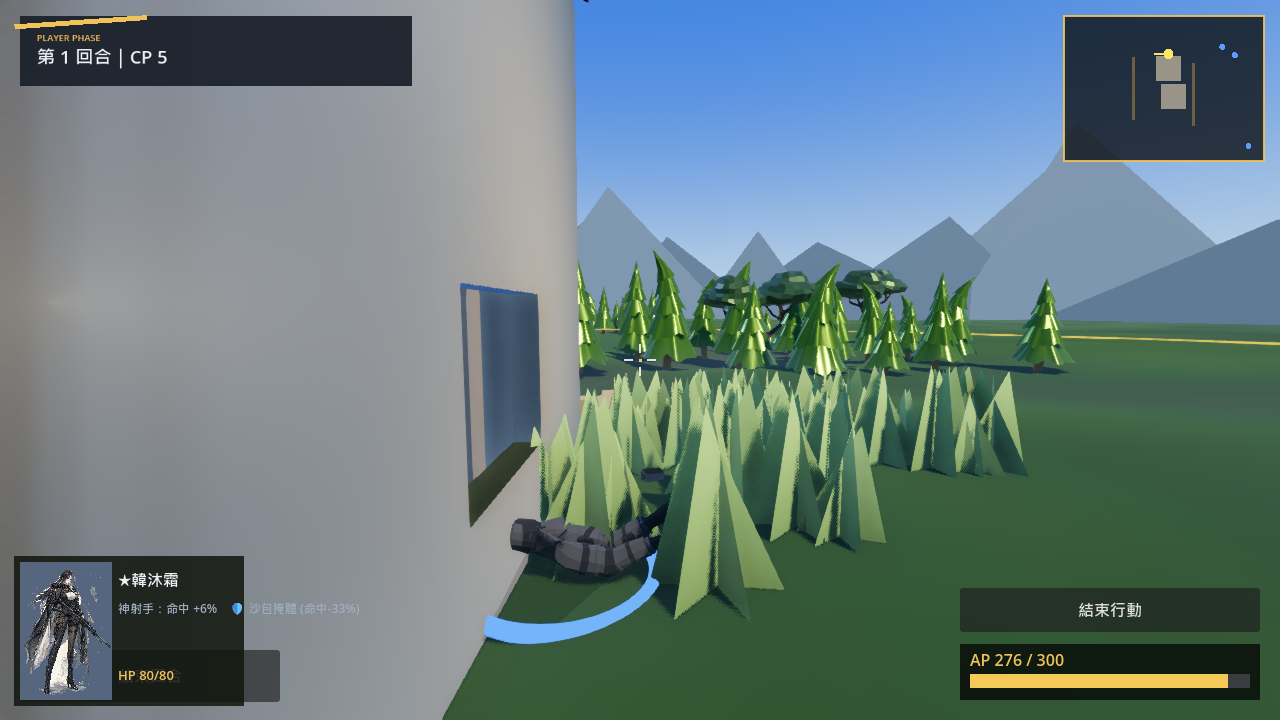
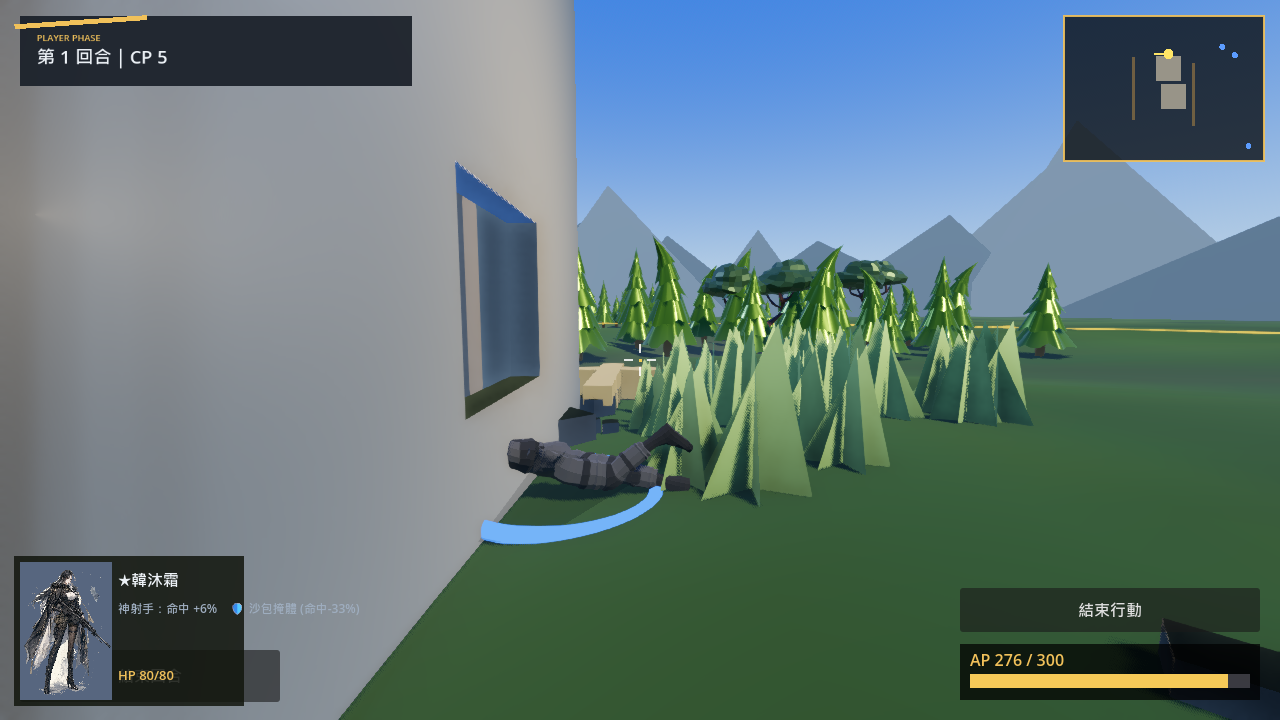
feat(動畫12+視角07 §GDD07): 趴姿移動改成真的匍匐前進，不再是自由式游泳
使用者指正兩次：①趴著移動看起來像自由式 ②不是左右腳伸直晃動，
而是膝蓋先彎、同時往外側移動。

真因：趴著移動時程式播的是**跑步動畫**，趴姿骨骼把軀幹壓平、動畫層卻在跑，
腿在跑、手臂在擺＝游泳。

- 趴姿移動走獨立分支：速度 0.8m/s（軍事匍匐 0.7~1m/s，原本吃 3.0 的跑步速度），
  動畫層播 idle 完全不插手，腿與軀幹全交給程式化姿勢。
- 匍匐動作：**膝蓋先彎（相位超前 0.5 rad），再帶著大腿往外頂**；小腿折回身體中線
  （腳跟朝臀部），不可以跟著大腿往外——那是剪刀腿。左右腿相位差半圈交替蹬地，
  身體隨蹬地那一腿側滾 9°。靜止臥射時擺動為 0，起停漸進。
- **沒在蹬地的腿要併攏**：基礎方向原本是純朝後，兩腿被髖寬撐開成 V 字像劈腿。
- 連續趴著移動 2.5 秒（約 2m）自動起身：短按爬著微調射擊位置合理，
  但用 0.8m/s 爬過整個戰場很痛苦。鬆開方向鍵會重置。
- 趴姿鏡頭跟著降：`Unit.eye_height()`（站 1.52／蹲 1.05／趴 0.95），相機直接問單位。
  趴姿刻意不取真實眼高，那太貼地會整個畫面都是草。

★順手修掉三個原本就錯、但驗收沒攔下來的東西：
1. **解除趴姿後模型高度沒還原**：趴姿把 y 壓下 1m 多，起身時那行不再執行，
   y 卡在低位＝人陷進地裡（實測髖高 -0.05m）。判準是「有沒有人正在寫這個值」，
   不是「處於哪個姿勢」——這副骨架的蹲姿走真人動畫、根本不寫高度，
   第一版寫成「蹲姿也要歸零才還原」被 _crouch=1 卡住。
2. **射線與圓求交取錯點**：取「線段上離圓心最近的點」，鏡頭落在圓內時算出 t≈1
   ＝判定成沒擋到。要取進入交點。鏡頭碰撞另外只擋半徑 0.35m 以上的圓
   （電線桿、柵欄那麼細一直把鏡頭往回拉很煩）。
3. **草叢長在建築室內**：草叢生成沒扣掉建築佔地。

驗收（selftest FAIL=0、e2e DONE）：[crawlchk] 五項——選點不在室內、趴著走 2.1 秒
位移 1.33m/動畫 idle/髖高 0.26m、膝蓋外張量 0.20/0.63/0.25（差 0.43）、
左膝彎曲角 9/99/6 度、連續走 3.5 秒後趴姿值歸零且髖高 0.45m。16 單位 5.8ms。

★驗收台自身的坑（查了三輪）：畫面正中一根柱子，我一路假設是鏡頭穿模改了三輪，
加診斷一量才發現那是 4.26m 外的一棵樹——選點沒避開樹而已。
選點改用 `_open_spot()` 分級放寬（14→10→7→5→只避建築）：門檻開太高會整張圖
找不到而退回「地圖中央」，那裡往往就是一棟房子裡。

Changed region(s): [[0.25, 0.2139, 1.0, 1.0], [0.9062, 0.8556, 1.0, 1.0], [0.9375, 0.3056, 1.0, 0.3361]]

diff --git a/GDD/07-第三人稱視角.md b/GDD/07-第三人稱視角.md
@@ -70,3 +70,34 @@
 - 遊戲規則（combat/fog/ai/連線同步）零改動——3D 純表現層＋輸入方向轉換。單位座標仍是 960×600 平面。
 - 全程 3D 只換「渲染 + 螢幕↔世界座標轉換（unproject）」；狀態機、CP/AP、命中、迷霧一律沿用。
 - 零依賴、手機可玩、GitHub Pages 可跑。
+
+## 姿勢與鏡頭（2026-07-26 增訂，Godot 版）
+
+### 移動姿勢對應（dept-04／dept-12）
+| 姿勢 | 速度 | 動畫來源 | 說明 |
+|------|------|----------|------|
+| 站 | 3.0 m/s | 動作庫 run/walk | |
+| 蹲行 | 1.35 m/s | 動作庫 crouch_walk | 掩體內 4m 範圍 |
+| **匍匐** | **0.8 m/s** | **程式化（動畫層播 idle 不插手）** | 趴姿移動 |
+
+**匍匐的動作規則**（使用者 2026-07-26 兩次指正後定案）：
+1. **不可以播跑步動畫**。趴姿骨骼把軀幹壓平、動畫層卻在跑，腿在跑、手臂在擺＝自由式游泳。
+2. **膝蓋先彎，再帶著大腿往外頂**（屈膝相位超前外展 0.5 rad）。小腿要折回身體中線
+   （腳跟朝臀部），不可以跟著大腿往外——那是剪刀腿不是匍匐。
+3. **沒在蹬地的那條腿要併攏**。基礎方向若是純朝後，兩腿會被髖寬撐開成 V 字，看起來像劈腿。
+4. 左右腿相位差半圈＝交替蹬地；身體隨蹬地的那一腿側滾 9°（匍匐的使力感來自這裡）。
+5. 靜止臥射時擺動強度為 0，起停漸進。
+
+### 鏡頭
+- **眼高跟著姿勢走**（站 1.52／蹲 1.05／趴 0.95m）。趴著時鏡頭若仍吊在站姿高度，
+  人會被草叢淹沒、玩家看不到自己。趴姿刻意不取真實眼高，那太貼地會整個畫面都是草。
+- **貼牆自動換肩**：左右肩各試算一次，哪側沒被擋就換過去（右肩優先，差 0.18 以上才換）。
+- **鏡頭碰撞只擋半徑 0.35m 以上的圓與建築牆**：電線桿、柵欄那麼細的東西一直把鏡頭
+  往回拉很煩，也遮不住什麼。
+- 射線與圓求交**必須取進入交點**，不是「線段上離圓心最近的點」——寫成最近點時，
+  鏡頭落在樹幹內部會算出 t≈1（最近點就是端點本身）＝判定成沒擋到，鏡頭停在樹幹裡。
+
+### 驗收
+- `[crawlchk]`：趴著走 2 秒量位移（要在匍匐速度區間）、動畫狀態（不可 run/walk）、髖高、
+  **膝蓋外張量與屈膝角各取三個時間點**（只拍一張靜態圖看不出有沒有在交替）。
+- `[camchk]`：貼牆時自動換肩、鏡頭離頭 1.5m 以上。
